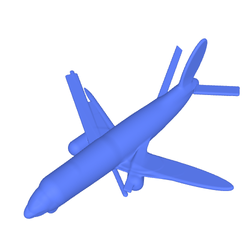
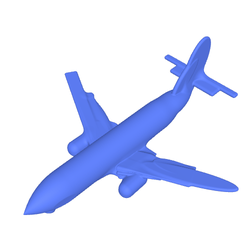
Updated airplane render and metrics with results from a better model in ShapeNet experiments

diff --git a/ExperimentsAndResults.tex b/ExperimentsAndResults.tex
@@ -369,7 +369,7 @@ Accuracy metrics for both one-pass and highest performing cascaded models in the
 		\hline
 		\makecell{Shape\\Category} & \makecell{Training\\Set} & \makecell{Best\\Loss} & \makecell{Best\\CD} & \makecell{Best\\EMD} & \makecell{Best\\IoU} & \makecell{Batch\\Size} & \makecell{Train Time\\(min)} & \makecell{Best\\Epoch} & \makecell{Total\\Epochs} \\
 		\Xhline{1pt}
-		\multirow{2}{*}{Airplane} & \smash[b]{Single Category} & 0.2065 & \textbf{11.00} & \textbf{414.8} & \textbf{0.6765} & 64 & 203.5 & 167 & 207 \\
+		\multirow{2}{*}{Airplane} & \smash[b]{Single Category} & 0.1999 & \textbf{9.78}  & \textbf{395.6} & \textbf{0.6883} & 64 & 199.7 & 165 & 205 \\
 		                          & Whole Dataset              & 0.2218 & 13.29          & 461.9          & 0.6150          & 64 & 685.8 & 42  & 52  \\
 		\hline
 		\multirow{2}{*}{Bench}    & \smash[b]{Single Category} & 0.2193 & 21.37          & 488.4          & 0.5202          & 64 & 76.3  & 148 & 188 \\
@@ -383,6 +383,8 @@ Accuracy metrics for both one-pass and highest performing cascaded models in the
 		\hline
 		\multirow{2}{*}{Sofa}     & \smash[b]{Single Category} & 0.2074 & 16.97          & \textbf{438.6} & \textbf{0.8069} & 64 & 138.8 & 159 & 199 \\
 		                          & Whole Dataset              & 0.2104 & \textbf{15.83} & 441.2          & 0.8013          & 64 & 685.8 & 42  & 52  \\
+		\hline
+		\makecell[l]{All}         & Whole Dataset           & 0.2261 & 23.38          & 541.9                     & 0.6440          & 64 & 685.8 & 42  & 52  \\
 		\hline
 	\end{tabular}
 	\caption{}
